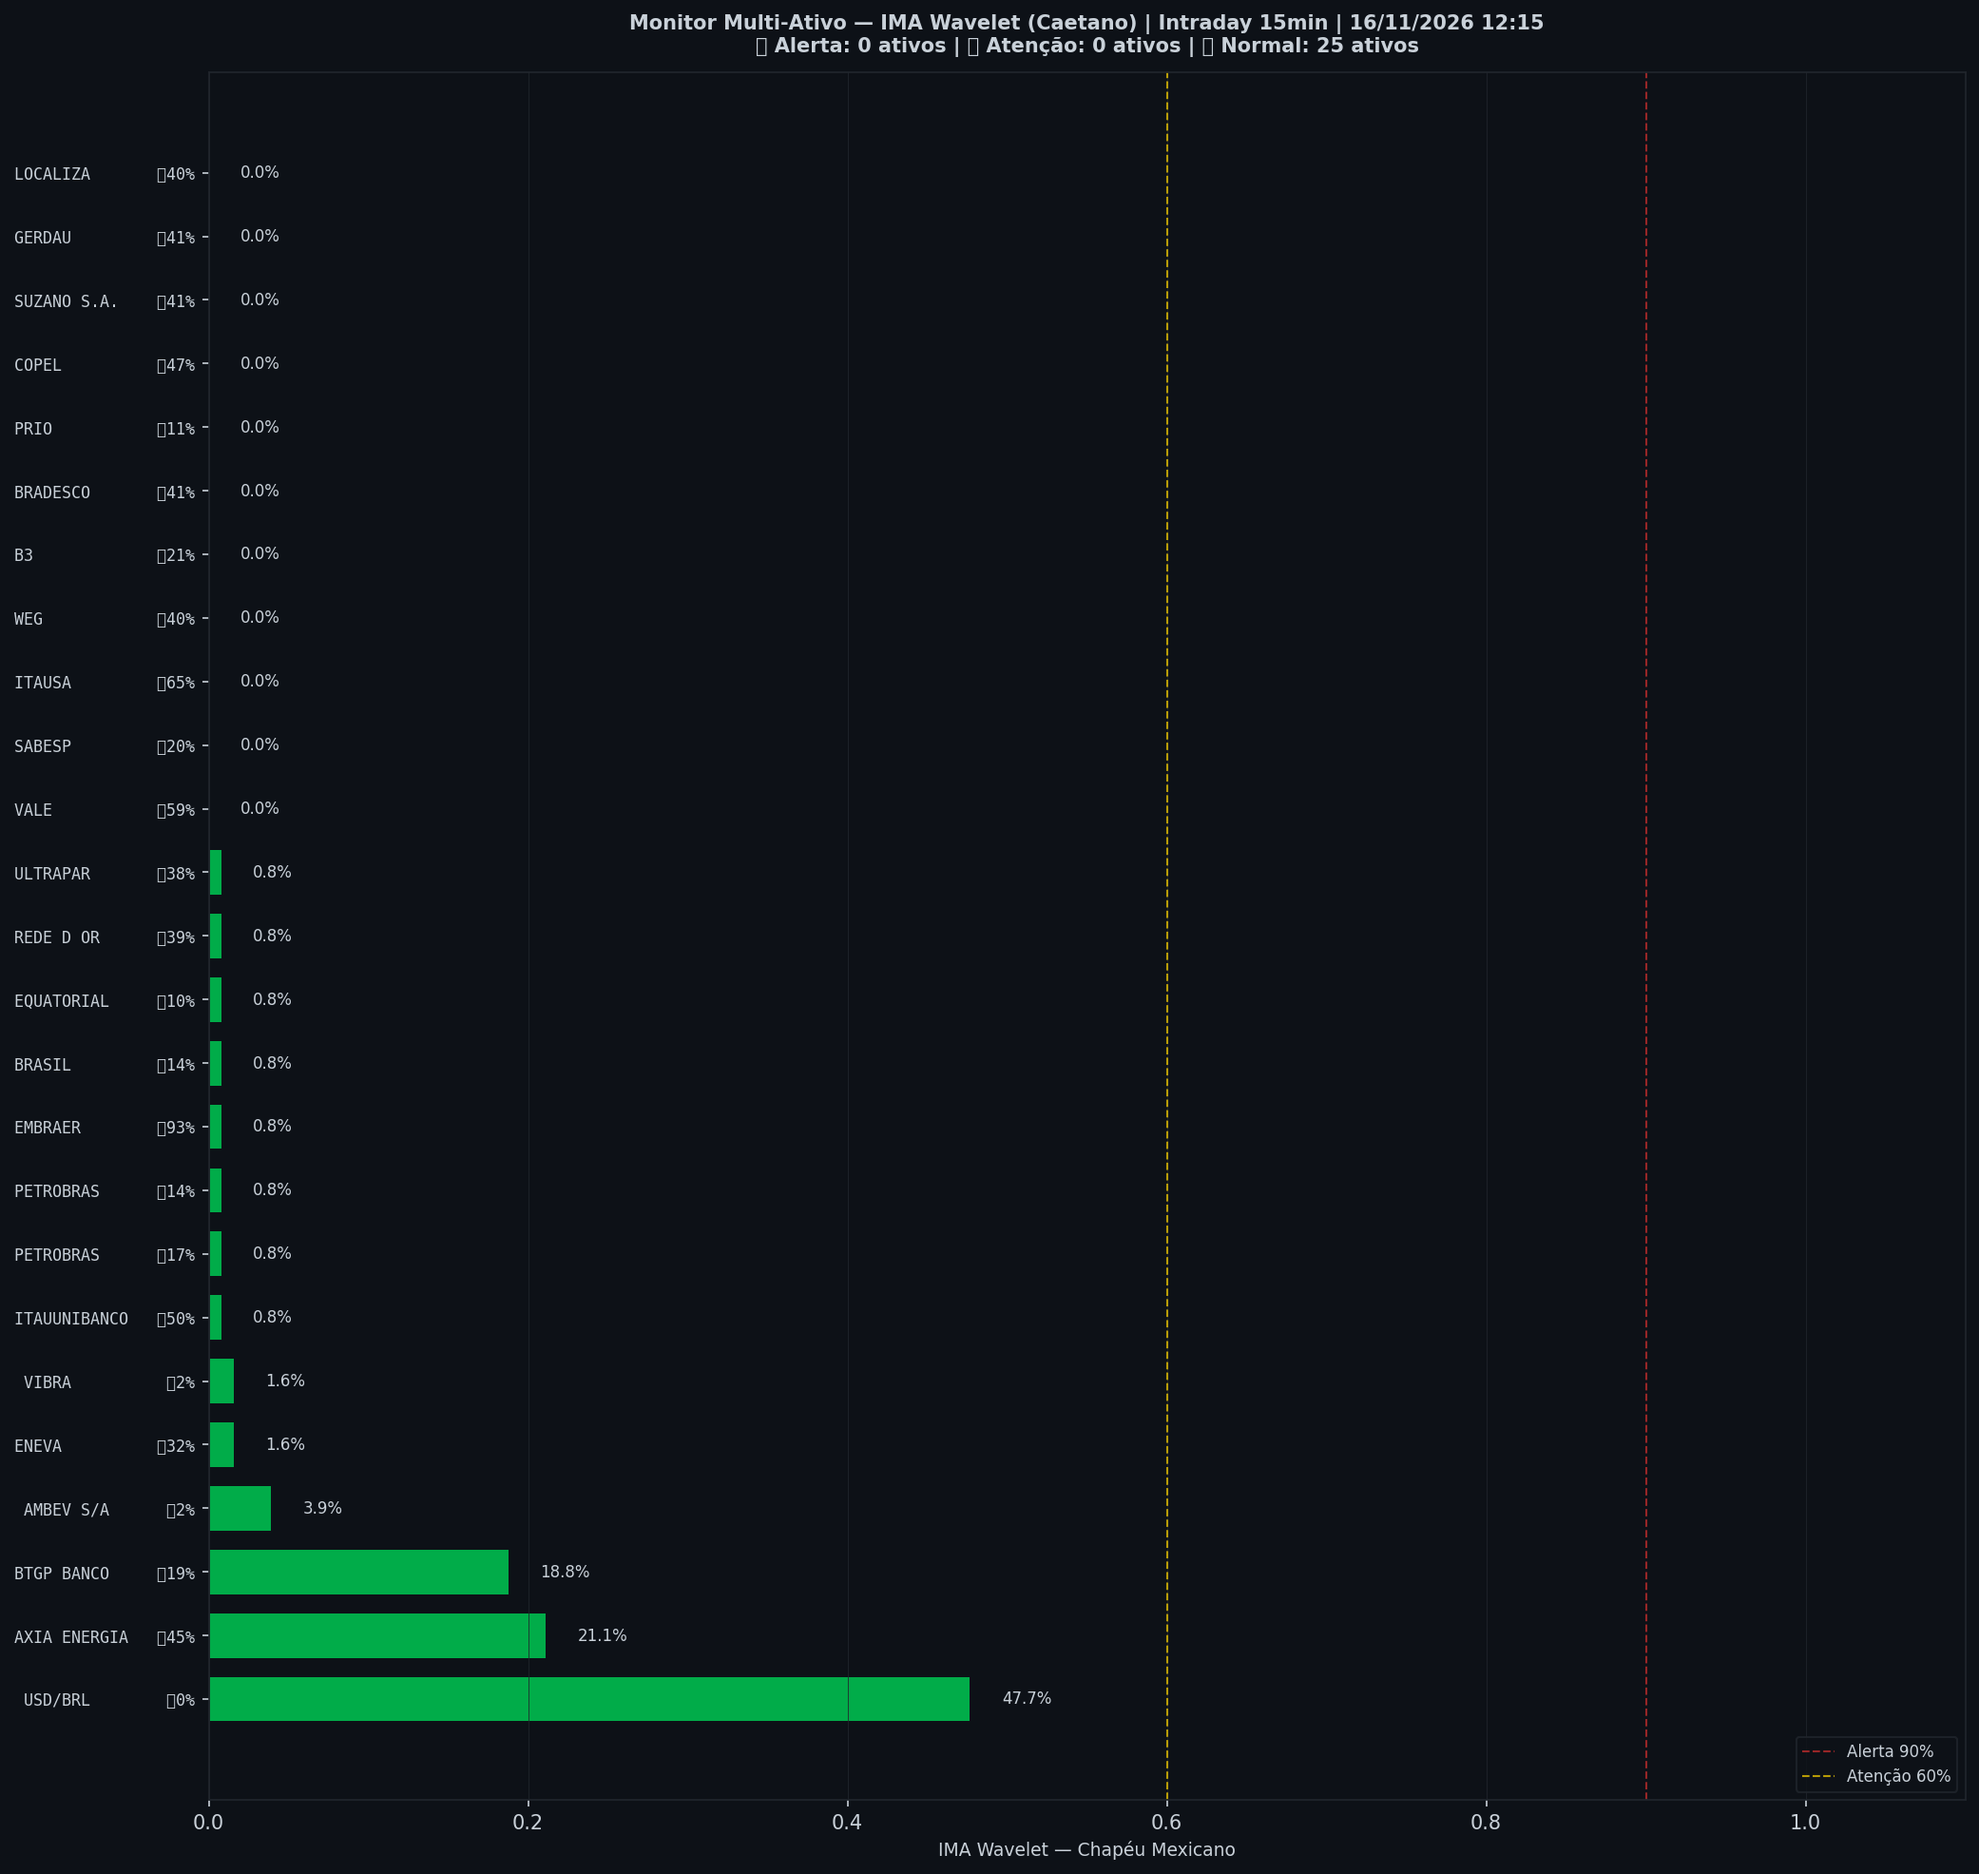
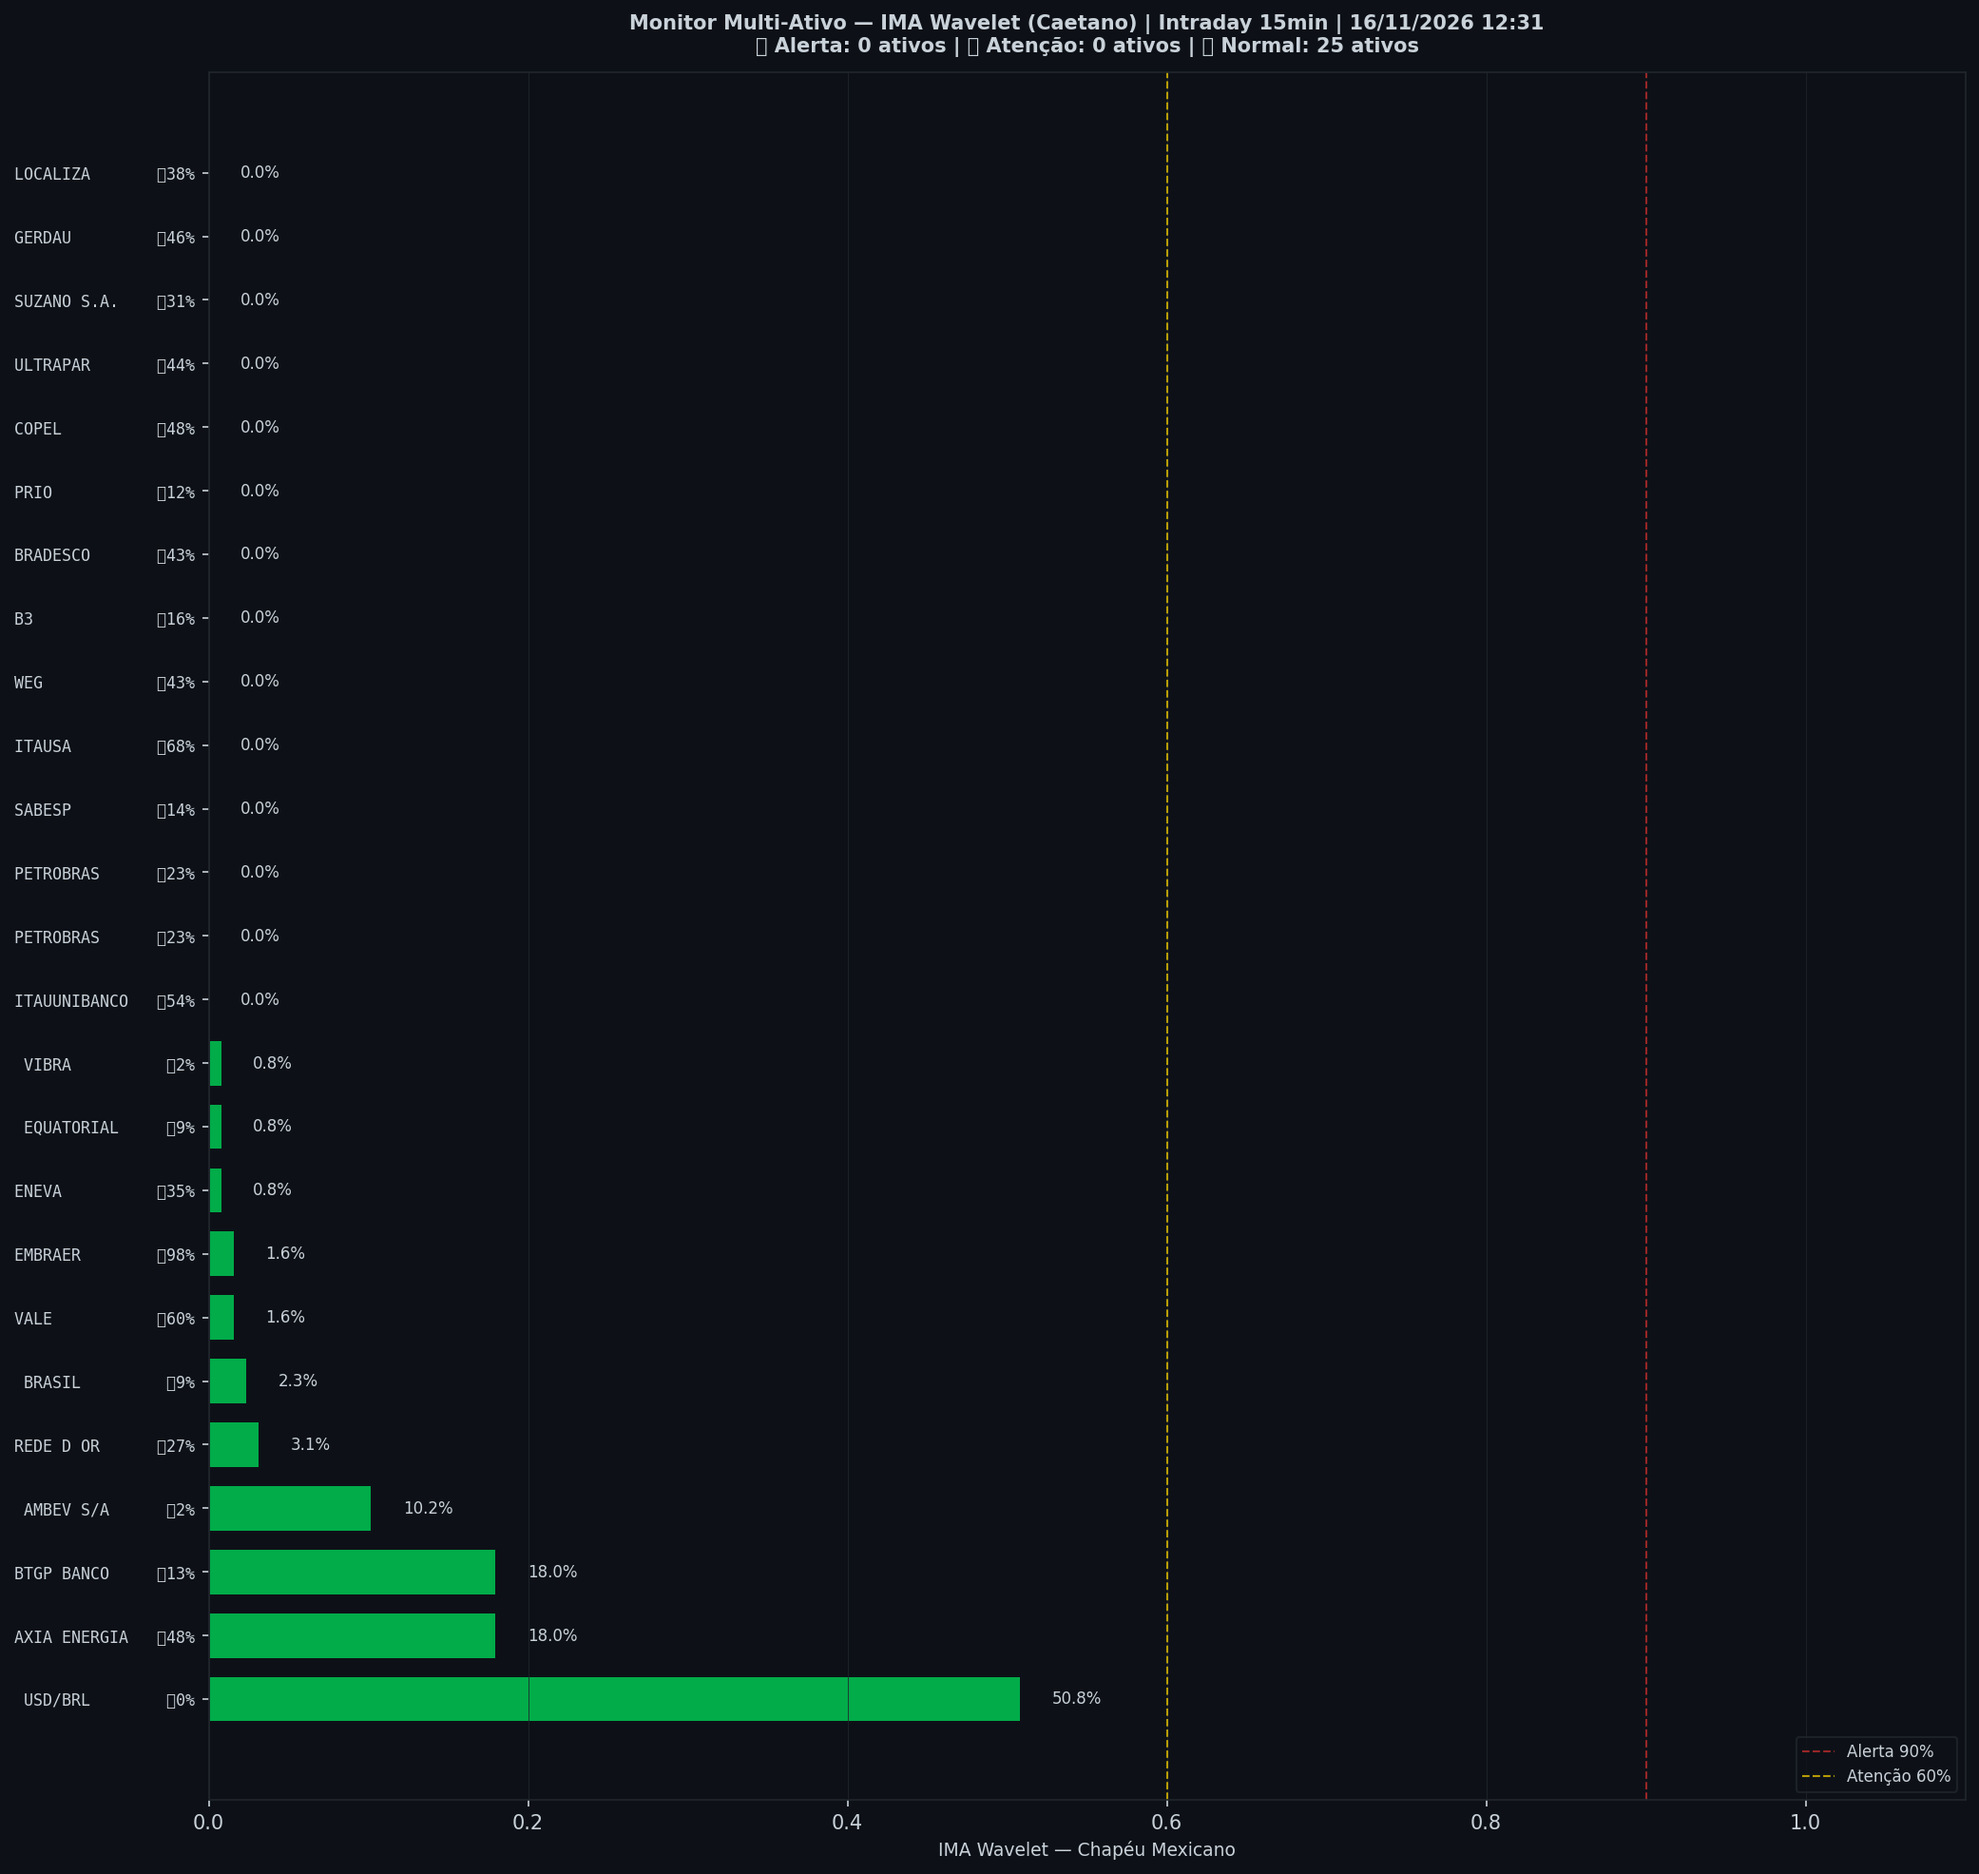
🤖 Auto: Sinal 16/11/2026 12:31

diff --git a/content/intraday/2026-11-16.md b/content/intraday/2026-11-16.md
@@ -1,10 +1,10 @@
 ---
-title: "🟢 Intraday 16/11/2026 12:00 BRT — VERDE"
+title: "🟢 Intraday 16/11/2026 12:15 BRT — VERDE"
 date: 2026-11-16
 tags: [intraday]
 ---
 
-> [!success] Onde o mercado está agora (16/11 12:00, candles de 15 min): **🟢 Calmo**
+> [!success] Onde o mercado está agora (16/11 12:15, candles de 15 min): **🟢 Calmo**
 > `Pânico ◀─────●───────────────▶ Euforia`
 >
 > O Ibovespa está dentro da sua faixa normal, sem excesso para cima nem para baixo.
@@ -20,7 +20,7 @@ tags: [intraday]
 > | 📍 **Sinais** | hoje: nenhum sinal | [abrir](sinais-topo-fundo/) |
 > | 🧪 **Placar ao vivo** | 1 operação(ões), 0 com lucro, soma -0,8% | [abrir](operacoes/) |
 
-> [!success] IMA Intraday · 15 min (16/11 12:00): 🟢 **VERDE** — Risco 0% · ＝ +0 p.p. vs leitura anterior
+> [!success] IMA Intraday · 15 min (16/11 12:15): 🟢 **VERDE** — Risco 0% · ＝ +0 p.p. vs leitura anterior
 > `░░░░░░░░░░░░░░░░░░░░`
 > Preço na faixa normal em torno da tendência.
 
@@ -32,13 +32,13 @@ tags: [intraday]
 >
 > *Leitura educacional baseada em 26 anos de dados, não recomendação. [Como usar](../metodologia/crise#3-como-usar-na-prática).*
 
-| Indicador — IMA Intraday · 15 min (16/11 12:00) | Valor |
+| Indicador — IMA Intraday · 15 min (16/11 12:15) | Valor |
 |---|---|
 | 🔴 ζ Topo — preço esticado acima da tendência | **0%** |
-| 🔵 ζ Fundo — preço esticado abaixo da tendência | 46% |
+| 🔵 ζ Fundo — preço esticado abaixo da tendência | 48% |
 | 🫧 LPPL bolha — alta super-exponencial (risco de crash) | 0% |
 | 🫧 LPPL antibolha — queda super-exponencial (risco de repique) | 0% |
-| 📊 Ibovespa | 170.047 pts |
+| 📊 Ibovespa | 170.090 pts |
 
 ![Gráfico do sinal](../graficos/sinal_intraday.png)
 
@@ -46,6 +46,7 @@ tags: [intraday]
 
 | Data | Zona | Evento | Risco | ζ Topo | ζ Fundo | LPPL |
 |---|---|---|---|---|---|---|
+| 2026-11-16 12:15 | 🟢 VERDE |  | **0%** | 0% | 48% | 0% |
 | 2026-11-16 12:00 | 🟢 VERDE |  | **0%** | 0% | 46% | 0% |
 | 2026-11-16 11:45 | 🟢 VERDE |  | **0%** | 0% | 43% | 0% |
 | 2026-11-16 11:30 | 🟢 VERDE |  | **0%** | 0% | 42% | 0% |
@@ -75,50 +76,49 @@ tags: [intraday]
 | 2026-11-13 13:45 | 🟢 VERDE |  | **2%** | 2% | 3% | 0% |
 | 2026-11-13 13:30 | 🟢 VERDE |  | **1%** | 1% | 1% | 0% |
 | 2026-11-13 13:15 | 🟢 VERDE |  | **1%** | 1% | 2% | 0% |
-| 2026-11-13 13:00 | 🟢 VERDE |  | **0%** | 0% | 3% | 0% |
 
 <small>Destaques: 🟡 ≥ 60% · 🔴 ≥ 90% (Risco e ζ Topo) · 🔵 ≥ 60% · 🔪 ≥ 90% (ζ Fundo) · 🫧 ≥ 30% · 🫧🔴 ≥ 50% (LPPL)</small>
 
 ## Monitor Multi-Ativo
 
-**0% dos ativos em tensão** (0🔴 0🟡) · **2 com ζ Fundo alto** — quanto mais ativos disparam juntos, mais confiável o sinal.
+**0% dos ativos em tensão** (0🔴 0🟡) · **3 com ζ Fundo alto** — quanto mais ativos disparam juntos, mais confiável o sinal.
 
 > [!danger] Em destaque no multi-ativo
-> 🔪 **EMBRAER** ζ Fundo 93% · 🔵 **ITAUSA** ζ Fundo 65%
+> 🔪 **EMBRAER** ζ Fundo 98% · 🔵 **ITAUSA** ζ Fundo 68% · 🔵 **VALE** ζ Fundo 60%
 
 | Zona | Ativo | Setor | ζ Topo | ζ Fundo |
 |---|---|---|---|---|
-| 🟢 | **EMBRAER** | Outros | 0.8% | 🔪 **93.0%** |
-| 🟢 | **ITAUSA** | Financeiro | 0.0% | 🔵 **64.8%** |
-| 🟢 | **VALE** | Mineração | 0.0% | 59.4% |
-| 🟢 | **ITAUUNIBANCO** | Financeiro | 0.8% | 50.0% |
-| 🟢 | **USD/BRL** | Câmbio | 47.7% | 0.0% |
-| 🟢 | **COPEL** | Energia | 0.0% | 46.9% |
-| 🟢 | **AXIA ENERGIA** | Energia | 21.1% | 44.5% |
-| 🟢 | **GERDAU** | Siderurgia | 0.0% | 41.4% |
-| 🟢 | **BRADESCO** | Financeiro | 0.0% | 40.6% |
-| 🟢 | **SUZANO S.A.** | Papel/Celulose | 0.0% | 40.6% |
-| 🟢 | **WEG** | Industrial | 0.0% | 39.8% |
-| 🟢 | **LOCALIZA** | Aluguel | 0.0% | 39.8% |
-| 🟢 | **REDE D OR** | Saúde | 0.8% | 39.1% |
-| 🟢 | **ULTRAPAR** | Outros | 0.8% | 37.5% |
-| 🟢 | **ENEVA** | Energia | 1.6% | 32.0% |
-| 🟢 | **B3** | Financeiro | 0.0% | 21.1% |
-| 🟢 | **SABESP** | Saneamento | 0.0% | 19.5% |
-| 🟢 | **BTGP BANCO** | Financeiro | 18.8% | 18.8% |
-| 🟢 | **PETROBRAS** | Petróleo | 0.8% | 17.2% |
-| 🟢 | **PETROBRAS** | Petróleo | 0.8% | 14.1% |
-| 🟢 | **BRASIL** | Financeiro | 0.8% | 14.1% |
-| 🟢 | **PRIO** | Petróleo | 0.0% | 10.9% |
-| 🟢 | **EQUATORIAL** | Energia | 0.8% | 10.2% |
-| 🟢 | **AMBEV S/A** | Consumo | 3.9% | 2.3% |
-| 🟢 | **VIBRA** | Energia | 1.6% | 1.6% |
+| 🟢 | **EMBRAER** | Outros | 1.6% | 🔪 **98.4%** |
+| 🟢 | **ITAUSA** | Financeiro | 0.0% | 🔵 **68.0%** |
+| 🟢 | **VALE** | Mineração | 1.6% | 🔵 **60.2%** |
+| 🟢 | **ITAUUNIBANCO** | Financeiro | 0.0% | 53.9% |
+| 🟢 | **USD/BRL** | Câmbio | 50.8% | 0.0% |
+| 🟢 | **COPEL** | Energia | 0.0% | 48.4% |
+| 🟢 | **AXIA ENERGIA** | Energia | 18.0% | 47.7% |
+| 🟢 | **GERDAU** | Siderurgia | 0.0% | 46.1% |
+| 🟢 | **ULTRAPAR** | Outros | 0.0% | 43.8% |
+| 🟢 | **WEG** | Industrial | 0.0% | 43.0% |
+| 🟢 | **BRADESCO** | Financeiro | 0.0% | 43.0% |
+| 🟢 | **LOCALIZA** | Aluguel | 0.0% | 37.5% |
+| 🟢 | **ENEVA** | Energia | 0.8% | 35.2% |
+| 🟢 | **SUZANO S.A.** | Papel/Celulose | 0.0% | 31.2% |
+| 🟢 | **REDE D OR** | Saúde | 3.1% | 26.6% |
+| 🟢 | **PETROBRAS** | Petróleo | 0.0% | 23.4% |
+| 🟢 | **PETROBRAS** | Petróleo | 0.0% | 22.7% |
+| 🟢 | **BTGP BANCO** | Financeiro | 18.0% | 13.3% |
+| 🟢 | **B3** | Financeiro | 0.0% | 15.6% |
+| 🟢 | **SABESP** | Saneamento | 0.0% | 14.1% |
+| 🟢 | **PRIO** | Petróleo | 0.0% | 11.7% |
+| 🟢 | **AMBEV S/A** | Consumo | 10.2% | 1.6% |
+| 🟢 | **BRASIL** | Financeiro | 2.3% | 8.6% |
+| 🟢 | **EQUATORIAL** | Energia | 0.8% | 8.6% |
+| 🟢 | **VIBRA** | Energia | 0.8% | 1.6% |
 
 <small>Destaques: 🟡 ≥ 60% · 🔴 ≥ 90% (Risco e ζ Topo) · 🔵 ≥ 60% · 🔪 ≥ 90% (ζ Fundo) · 🫧 ≥ 30% · 🫧🔴 ≥ 50% (LPPL)</small>
 
 ![Monitor multi-ativo](../graficos/multi_intraday.png)
 
-*Página atualizada em 16/11/2026 12:16 BRT (leitura da barra de 2026-11-16 12:00 BRT).*
+*Página atualizada em 16/11/2026 12:31 BRT (leitura da barra de 2026-11-16 12:15 BRT).*
 
 > [!warning] O que este indicador não faz
 > Medido em 5 anos de Ibovespa, o ζ **não antecipa** topos nem fundos: a capacidade de separar o que sobe do que cai ficou em 0,49–0,52, e 0,50 é moeda jogada ao ar. Ele descreve o estado de agora; não é aviso do que vem. As zonas verde/amarelo/vermelho continuam na página como descrição desse estado — **não as use como sinal de entrada ou saída**.

diff --git a/content/index.md b/content/index.md
@@ -6,9 +6,9 @@ tags: [home]
 
 **As ondas do mercado, explicadas.** Leitura do Ibovespa com estatística de 26 anos, baseada no trabalho de pesquisadores e traders reconhecidos e adaptada por Jarbas Daniel da Costa.
 
-*Última atualização: 16/11/2026 12:16 BRT · Intraday 15min*
+*Última atualização: 16/11/2026 12:31 BRT · Intraday 15min*
 
-> [!success] Onde o mercado está agora (16/11 12:00, candles de 15 min): **🟢 Calmo**
+> [!success] Onde o mercado está agora (16/11 12:15, candles de 15 min): **🟢 Calmo**
 > `Pânico ◀─────●───────────────▶ Euforia`
 >
 > O Ibovespa está dentro da sua faixa normal, sem excesso para cima nem para baixo.
@@ -49,18 +49,18 @@ tags: [home]
 > *Leitura educacional baseada em 26 anos de dados, não recomendação. [Como usar](metodologia/crise#3-como-usar-na-prática).*
 
 > [!info]- 🌊 Detalhes do Sinal IMA (indicadores e últimos 7 pregões)
-> > [!success] IMA Intraday · 15 min (16/11 12:00): 🟢 **VERDE** — Risco 0% · ＝ +0 p.p. vs leitura anterior
+> > [!success] IMA Intraday · 15 min (16/11 12:15): 🟢 **VERDE** — Risco 0% · ＝ +0 p.p. vs leitura anterior
 > > `░░░░░░░░░░░░░░░░░░░░`
 > > Preço na faixa normal em torno da tendência.
 >
 >
-> | Indicador — IMA Intraday · 15 min (16/11 12:00) | Valor |
+> | Indicador — IMA Intraday · 15 min (16/11 12:15) | Valor |
 > |---|---|
 > | 🔴 ζ Topo — preço esticado acima da tendência | **0%** |
-> | 🔵 ζ Fundo — preço esticado abaixo da tendência | 46% |
+> | 🔵 ζ Fundo — preço esticado abaixo da tendência | 48% |
 > | 🫧 LPPL bolha — alta super-exponencial (risco de crash) | 0% |
 > | 🫧 LPPL antibolha — queda super-exponencial (risco de repique) | 0% |
-> | 📊 Ibovespa | 170.047 pts |
+> | 📊 Ibovespa | 170.090 pts |
 >
 > **Multi-ativo:** 0% em tensão (0🔴 0🟡 de 25 ativos)
 >
@@ -68,7 +68,7 @@ tags: [home]
 >
 > | Data | Zona | Risco | ζ Topo | ζ Fundo | LPPL |
 > |---|---|---|---|---|---|
-> | [16/11/2026](intraday/2026-11-16) | 🟢 VERDE | **0%** | 0% | 46% | 0% |
+> | [16/11/2026](intraday/2026-11-16) | 🟢 VERDE | **0%** | 0% | 48% | 0% |
 > | [13/11/2026](intraday/2026-11-13) | 🟢 VERDE | **0%** | 0% | 0% | 0% |
 >
 > <small>Destaques: 🟡 ≥ 60% · 🔴 ≥ 90% (Risco e ζ Topo) · 🔵 ≥ 60% · 🔪 ≥ 90% (ζ Fundo) · 🫧 ≥ 30% · 🫧🔴 ≥ 50% (LPPL)</small>

diff --git a/content/historico.md b/content/historico.md
@@ -5,7 +5,7 @@ tags: [historico]
 
 # 📜 Histórico de leituras (v5)
 
-**2.389 leituras** desde 2026-07-03. Na página ficam os últimos 3 dias leitura por leitura e o resumo de cada dia anterior; o registro inteiro está no arquivo para baixar.
+**2.390 leituras** desde 2026-07-03. Na página ficam os últimos 3 dias leitura por leitura e o resumo de cada dia anterior; o registro inteiro está no arquivo para baixar.
 
 [**Baixar o histórico completo**](historico-completo.csv) (105 KB · abre no Excel e no LibreOffice)
 
@@ -16,6 +16,7 @@ tags: [historico]
 
 | Data | Modo | Zona | Risco | IMA | LPPL |
 |---|---|---|---|---|---|
+| 2026-11-16 12:15 | intraday | 🟢 VERDE | 0% | 0% | 0% |
 | 2026-11-16 12:00 | intraday | 🟢 VERDE | 0% | 0% | 0% |
 | 2026-11-16 11:45 | intraday | 🟢 VERDE | 0% | 0% | 0% |
 | 2026-11-16 11:30 | intraday | 🟢 VERDE | 0% | 0% | 0% |

diff --git a/content/operacoes/ranking.md b/content/operacoes/ranking.md
@@ -5,7 +5,7 @@ tags: [operacoes]
 description: "As regras de compra do site ordenadas pelo resultado, com treino, teste e placar ao vivo"
 ---
 
-*Atualizado 16/11/2026 12:16 · histórico simulado com as regras congeladas em 23/10/2026 + placar ao vivo.*
+*Atualizado 16/11/2026 12:31 · histórico simulado com as regras congeladas em 23/10/2026 + placar ao vivo.*
 
 As regras de compra do site, **da que mais rendeu para a que menos rendeu**. O resultado é por operação, no índice à vista, sem custos e sem juros compostos (a soma é só a soma das operações). **Treino** = entradas de 2001 a 2013 e **teste** = 2014 em diante: uma regra só é confiável se ganhou nos dois. O único resultado sem nenhum ajuste ao histórico é o **placar ao vivo**.
 

diff --git a/content/linha-do-tempo/index.md b/content/linha-do-tempo/index.md
@@ -5,7 +5,7 @@ description: "Todo sinal, ordem, stop e aviso do Pêndulo de Mercado, do mais re
 tags: [eventos]
 ---
 
-*Atualizada 16/11/2026 12:16 BRT · a cada 15 min no pregão e às 19h.*
+*Atualizada 16/11/2026 12:31 BRT · a cada 15 min no pregão e às 19h.*
 
 Tudo o que o sistema fez ou detectou, **do mais recente para o mais antigo**: sinais de topo e fundo, ordens de compra e de venda armadas, compras, vendas, stops, avisos de 🚨 preço perto do nível e mudanças do Sinal IMA. Os **últimos 7 dias** ficam abertos; o resto, por **ano → mês → dia**.
 
